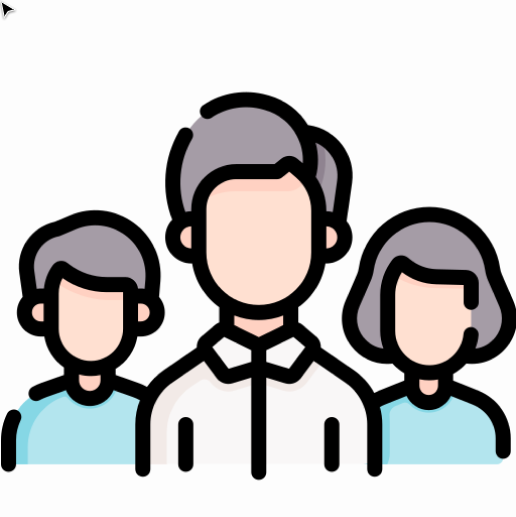
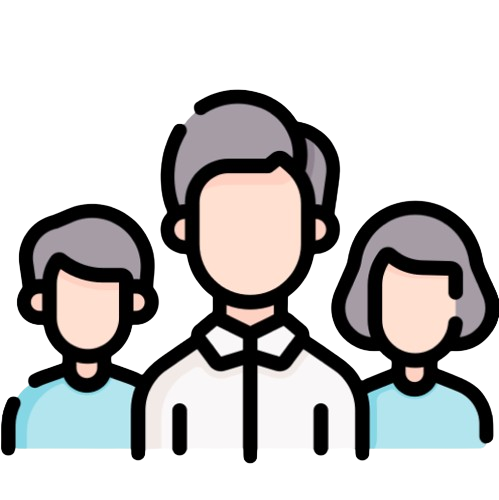
arrumei imagens

diff --git a/home.html b/home.html
@@ -56,10 +56,10 @@
         </nav>
     </header>
      <main>
-                <img alt="Professora e uma criança felizes" class="img-fluid" src="./img/home.png">
+        <img alt="Professora e uma criança felizes" class="img-fluid" src="./img/home.png">
         <section>
-            <h2 class="fw-bolder">SEJA BEM-VINDO AO ESPAÇO AZUL!</h2>
-            <p class="text-wrap">O Espaço Azul é uma ONG de São Carlos que atua na área de cuidados com pessoas autistas, especialmente com crianças e adolescentes</p>
+            <h1 class="fw-bolder">SEJA BEM-VINDO AO ESPAÇO AZUL!</h1>
+            <p class="aumenta-letra">O Espaço Azul é uma ONG de São Carlos que atua na área de cuidados com pessoas autistas, especialmente com crianças e adolescentes</p>
             <img src="./img/nuvens.png" alt="Nuvens escritas carinho, amor e respeito">
             <!-- nuvens -->
             <h2 class="fw-bold">NOSSOS PROJETOS</h2>
@@ -92,50 +92,55 @@
 
         <div class="doe-agora">
                     <h2 class="fw-bolder">DOE AGORA E FAÇA A DIFERENÇA NA VIDA DAS CRIANÇAS!</h2>
-                    <p class="fs-3">Ajude a fazer a diferença na vida de crianças autistas doando para o Espaço Azul. Sua contribuição oferece apoio vital e oportunidades para um futuro mais brilhante.</p>
+
+                    <p class="text-center">Ajude a fazer a diferença na vida de crianças autistas 
+                    doando para o Espaço Azul. Sua contribuição oferece apoio vital e oportunidades para um 
+                    futuro mais brilhante.</p>
+
             <button class="fw-bold">DOE AGORA</button>
         </div>
         <section class="container">
             <h2 class="fw-bold">DEPOIMENTOS</h2>
 
-
             <p>Garanta a continuidade e a ampliação dos atendimentos das crianças, jovens e adultos com deficiencias intelectuais.</p>
 
         </section>
-        <div class="container">
-            <div class="row">
-                <div class="col">
-                    <div id="carouselParceiros" class="carousel slide" data-bs-ride="carousel">
-                    <div class="carousel-indicators">
-                        <button type="button" data-bs-target="#carouselParceiros" data-bs-slide-to="0" class="active" aria-current="true" aria-label="Parceiro 1"></button>
-                        <button type="button" data-bs-target="#carouselParceiros" data-bs-slide-to="1" aria-label="Parceiro 2"></button>
-                    </div>
-                    <div class="carousel-inner">
-                        <div class="carousel-item active">
-                        <img src="./img/cardinali.png" class="d-block mx-auto img-depoimentos" alt="Imobiliária Cardinalli">
+        <section>
+            <div class="container">
+                <div class="row">
+                    <div class="col">
+                        <div id="carouselParceiros" class="carousel slide" data-bs-ride="carousel">
+                            <div class="carousel-indicators">
+                                <button type="button" data-bs-target="#carouselParceiros" data-bs-slide-to="0" class="active" aria-current="true" aria-label="Parceiro 1"></button>
+                                <button type="button" data-bs-target="#carouselParceiros" data-bs-slide-to="1" aria-label="Parceiro 2"></button>
+                            </div>
+                            <div class="carousel-inner">
+                                <div class="carousel-item active">
+                                    <img src="./img/cardinali.png" class="d-block mx-auto img-depoimentos" style="max-height: 400px; object-fit: contain;" alt="Imobiliária Cardinalli">
+                                </div>
+                                <div class="carousel-item">
+                                    <img src="./img/prefeitura-sao-carlos.png" class="d-block mx-auto img-depoimentos" style="max-height: 200px; object-fit: contain;" alt="Prefeitura de São Carlos">
+                                </div>
+                            </div>
+                            <button class="carousel-control-prev" type="button" data-bs-target="#carouselParceiros" data-bs-slide="prev">
+                                <span class="carousel-control-prev-icon" aria-hidden="true"></span>
+                                <span class="visually-hidden">Anterior</span>
+                            </button>
+                            <button class="carousel-control-next" type="button" data-bs-target="#carouselParceiros" data-bs-slide="next">
+                                <span class="carousel-control-next-icon" aria-hidden="true"></span>
+                                <span class="visually-hidden">Próximo</span>
+                            </button>
                         </div>
-                        <div class="carousel-item">
-                        <img src="./img/prefeitura-sao-carlos.png" class="d-block mx-auto img-depoimentos" style="max-height: 400px;" alt="Prefeitura de São Carlos">
-                        </div>
-                    </div>
-                    <button class="carousel-control-prev" type="button" data-bs-target="#carouselParceiros" data-bs-slide="prev">
-                        <span class="carousel-control-prev-icon" aria-hidden="true"></span>
-                        <span class="visually-hidden">Anterior</span>
-                    </button>
-                    <button class="carousel-control-next" type="button" data-bs-target="#carouselParceiros" data-bs-slide="next">
-                        <span class="carousel-control-next-icon" aria-hidden="true"></span>
-                        <span class="visually-hidden">Próximo</span>
-                    </button>
-                    </div>
                         <h2 class="fw-bolder">PARCEIROS</h2>
-                        <p>Entidades que ajudam a ONG</p>
+                        <p class="text-center">Entidades que ajudam a ONG</p>
                     </div>
                     <div class="col">
                         <img class="img-depoimentos" src="./img/equipe.png" alt="Imagem vetorial de equipe">
                         <h2 class="fw-bolder">CONHEÇA A NOSSA EQUIPE</h2>
                     </div>
-             </div>
-        </div>
+                </div>
+            </div>
+        </section>
     </main>
     <footer>
         <div class="footer-top">

diff --git a/sobre.html b/sobre.html
@@ -61,19 +61,29 @@
         <div class="container d-grid">
             <div class="row mb-4">
                 <div class="col-lg-6">
-                    <div class="titulo">UMA BREVE HISTÓRIA DA ONG</div>
-                    <div class="main"> A Associação de Apoio a Pais e Autistas existe desde 2013, porém esse trabalho teve início bem antes, através do encontro de algumas mães, que buscavam trocar informações sobre o TEA. Nossa missão é oferecer atendimento individual e especializado ABA (do termo original em inglês Apllied Behavior Analysis- Análise do Comportamento Aplicada).</div>
+                    <h3>UMA BREVE HISTÓRIA DA ONG</h3>
+
+                    <p class="recuo-paragrafo"> A <i>Associação de Apoio a Pais e Autistas</i> existe desde 2013, porém 
+                    esse trabalho teve início bem antes, através do encontro de algumas mães, que buscavam trocar 
+                    informações sobre o TEA. Nossa missão é oferecer atendimento individual e especializado ABA 
+                    (do termo original em inglês Apllied Behavior Analysis - Análise do Comportamento Aplicada).</p>
                 </div>
                 <div class="col-lg-6 d-flex justify-content-center">  
-                    <img src="./img/sobre2.png" alt="Membros da ONG" class="imagem2">
+                    <img src="./img/sobre2.png" alt="Membros da ONG" style="max-width: 500px; max-height: 250px;" class="imagem-centralizada"">
                 </div>
             </div>
             <div class="row mb-4">
                 <div class="col-lg-6 d-flex justify-content-center">
-                    <img src="./img/sobre3.png" alt="Mais membros da ONG" class="imagem3">
+                    <img src="./img/sobre3.png" alt="Mais membros da ONG" style="max-width: 600px; max-height: 250px;" class="imagem-centralizada">
                 </div>
                 <div class="col-lg-6">
-                    <div class="main"> Contamos com uma equipe formada por psicólogo, terapeuta ocupacional, fonoaudiólogo, pedagoga e psicopedagogo, oferecendo tratamento interdisciplinar, que contempla todas as áreas de desenvolvimento do indivíduo com TEA. Dessa maneira, o currículo do individuo envolvem as cinco áreas de desenvolvimento: linguagem, cognição, habilidades sociais, motoras e autocuidados. Nosso objetivo é conseguir a independência da pessoa com TEA, melhorando seu contato social, fala e instalando comportamentos adequados, para sua vida em sociedade.</div>
+                    <p class="recuo-paragrafo">Contamos com uma equipe formada por psicólogo, terapeuta ocupacional, 
+                    fonoaudiólogo, pedagoga e psicopedagogo, oferecendo tratamento interdisciplinar, 
+                    que contempla todas as áreas de desenvolvimento do indivíduo com TEA. Dessa maneira, 
+                    o currículo do individuo envolvem as cinco áreas de desenvolvimento: linguagem, cognição, 
+                    habilidades sociais, motoras e autocuidados. Nosso objetivo é conseguir a independência da 
+                    pessoa com TEA, melhorando seu contato social, fala e instalando comportamentos adequados, 
+                    para sua vida em sociedade.</p>
                 </div>
             </div>
             <div class="row d-flex justify-content-center">

diff --git a/css/styles.css b/css/styles.css
@@ -8,6 +8,10 @@ body {
     padding: 0;
 }
 
+p {
+    text-align: justify;
+}
+
 /* Header styles */
 header {
     background-color: white;
@@ -44,7 +48,6 @@ header {
     color: #000; /* Text color on hover */
     border-radius: 5px; /* Rounded corners */
 }
-
 
 /* Main content styles */
 main {
@@ -171,6 +174,10 @@ li a {
     text-indent: 50px;
 }
 
+.contraste {
+    flex-direction: column;
+}
+
 /* Media queries for container width */
 @media (min-width: 576px) {
     .container {
@@ -200,9 +207,4 @@ li a {
 a {
     text-decoration: none;
     color: #40C351;
-}
-
-
-.contraste {
-    flex-direction: column;
 }

diff --git a/css/home.css b/css/home.css
@@ -17,7 +17,6 @@ footer {
     margin-top: 25px;
 }
 
-
 .imagem1 {
     width: 120rem;
     height: 30rem;
@@ -70,7 +69,12 @@ section {
 h2 {
     padding: 1vh;
 }
+
 .img-depoimentos {
     max-height: 400px;
+}
+
+.aumenta-letra {
+    font-size: 1.2vw;
 }
 
